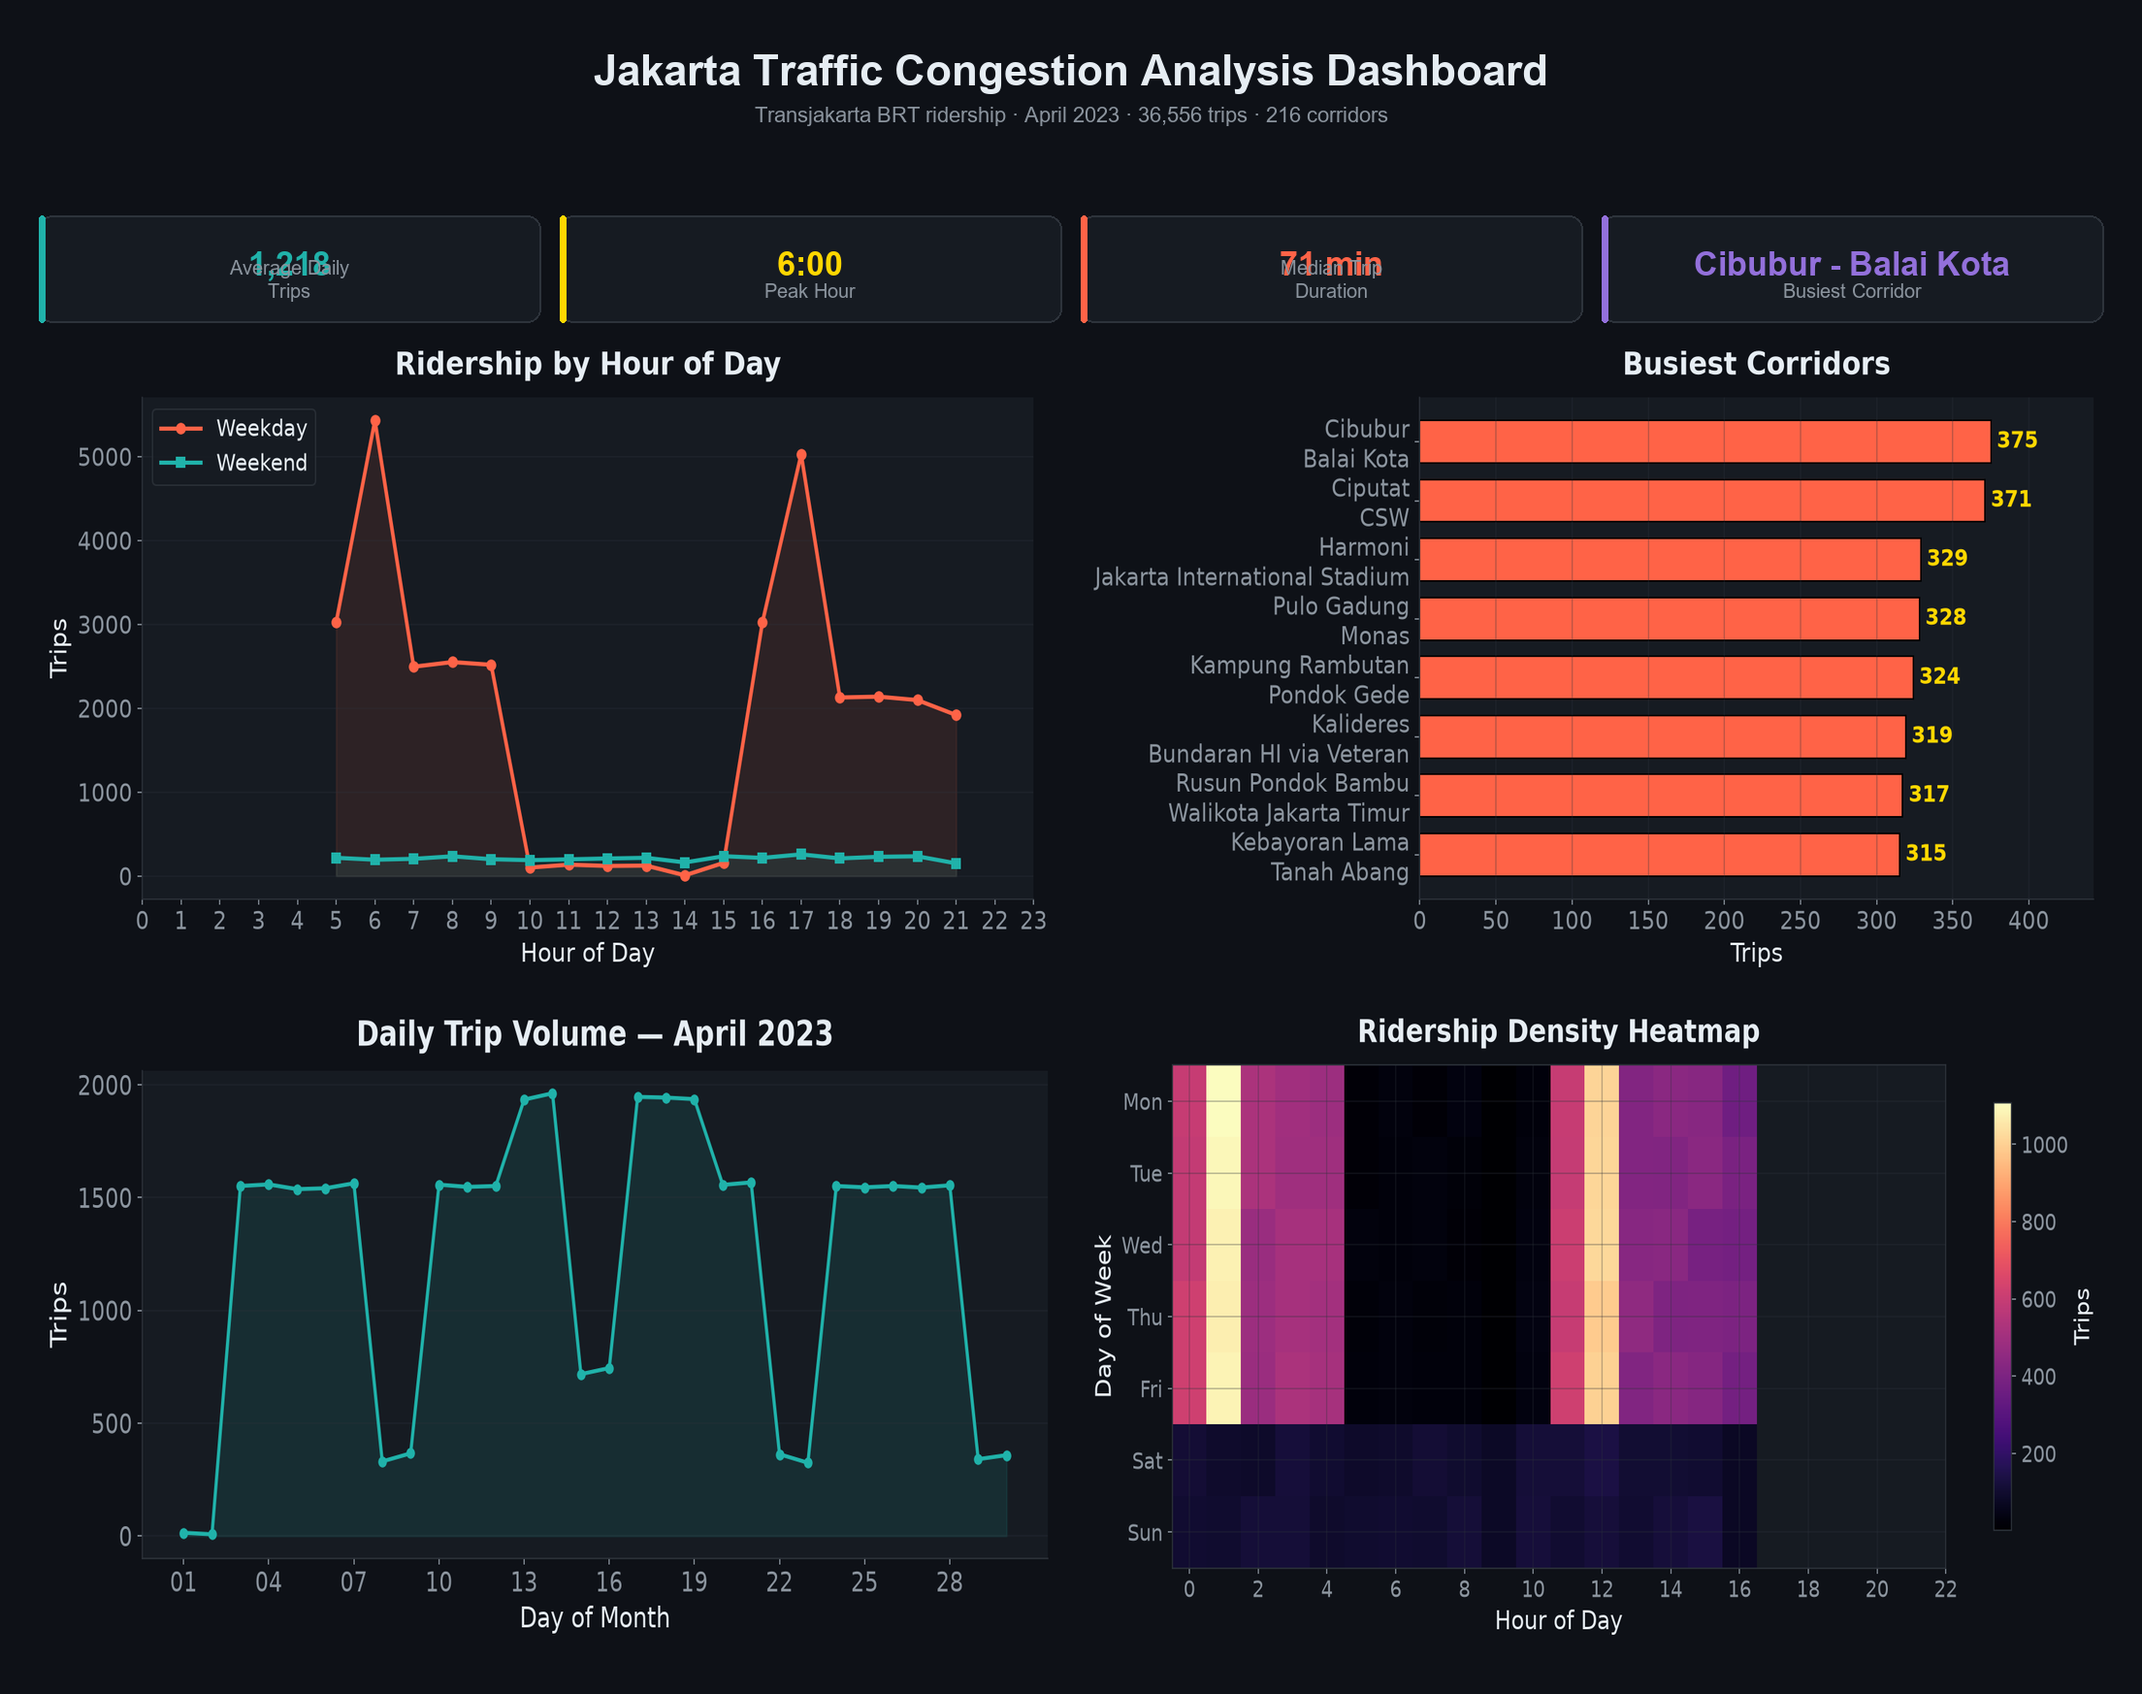
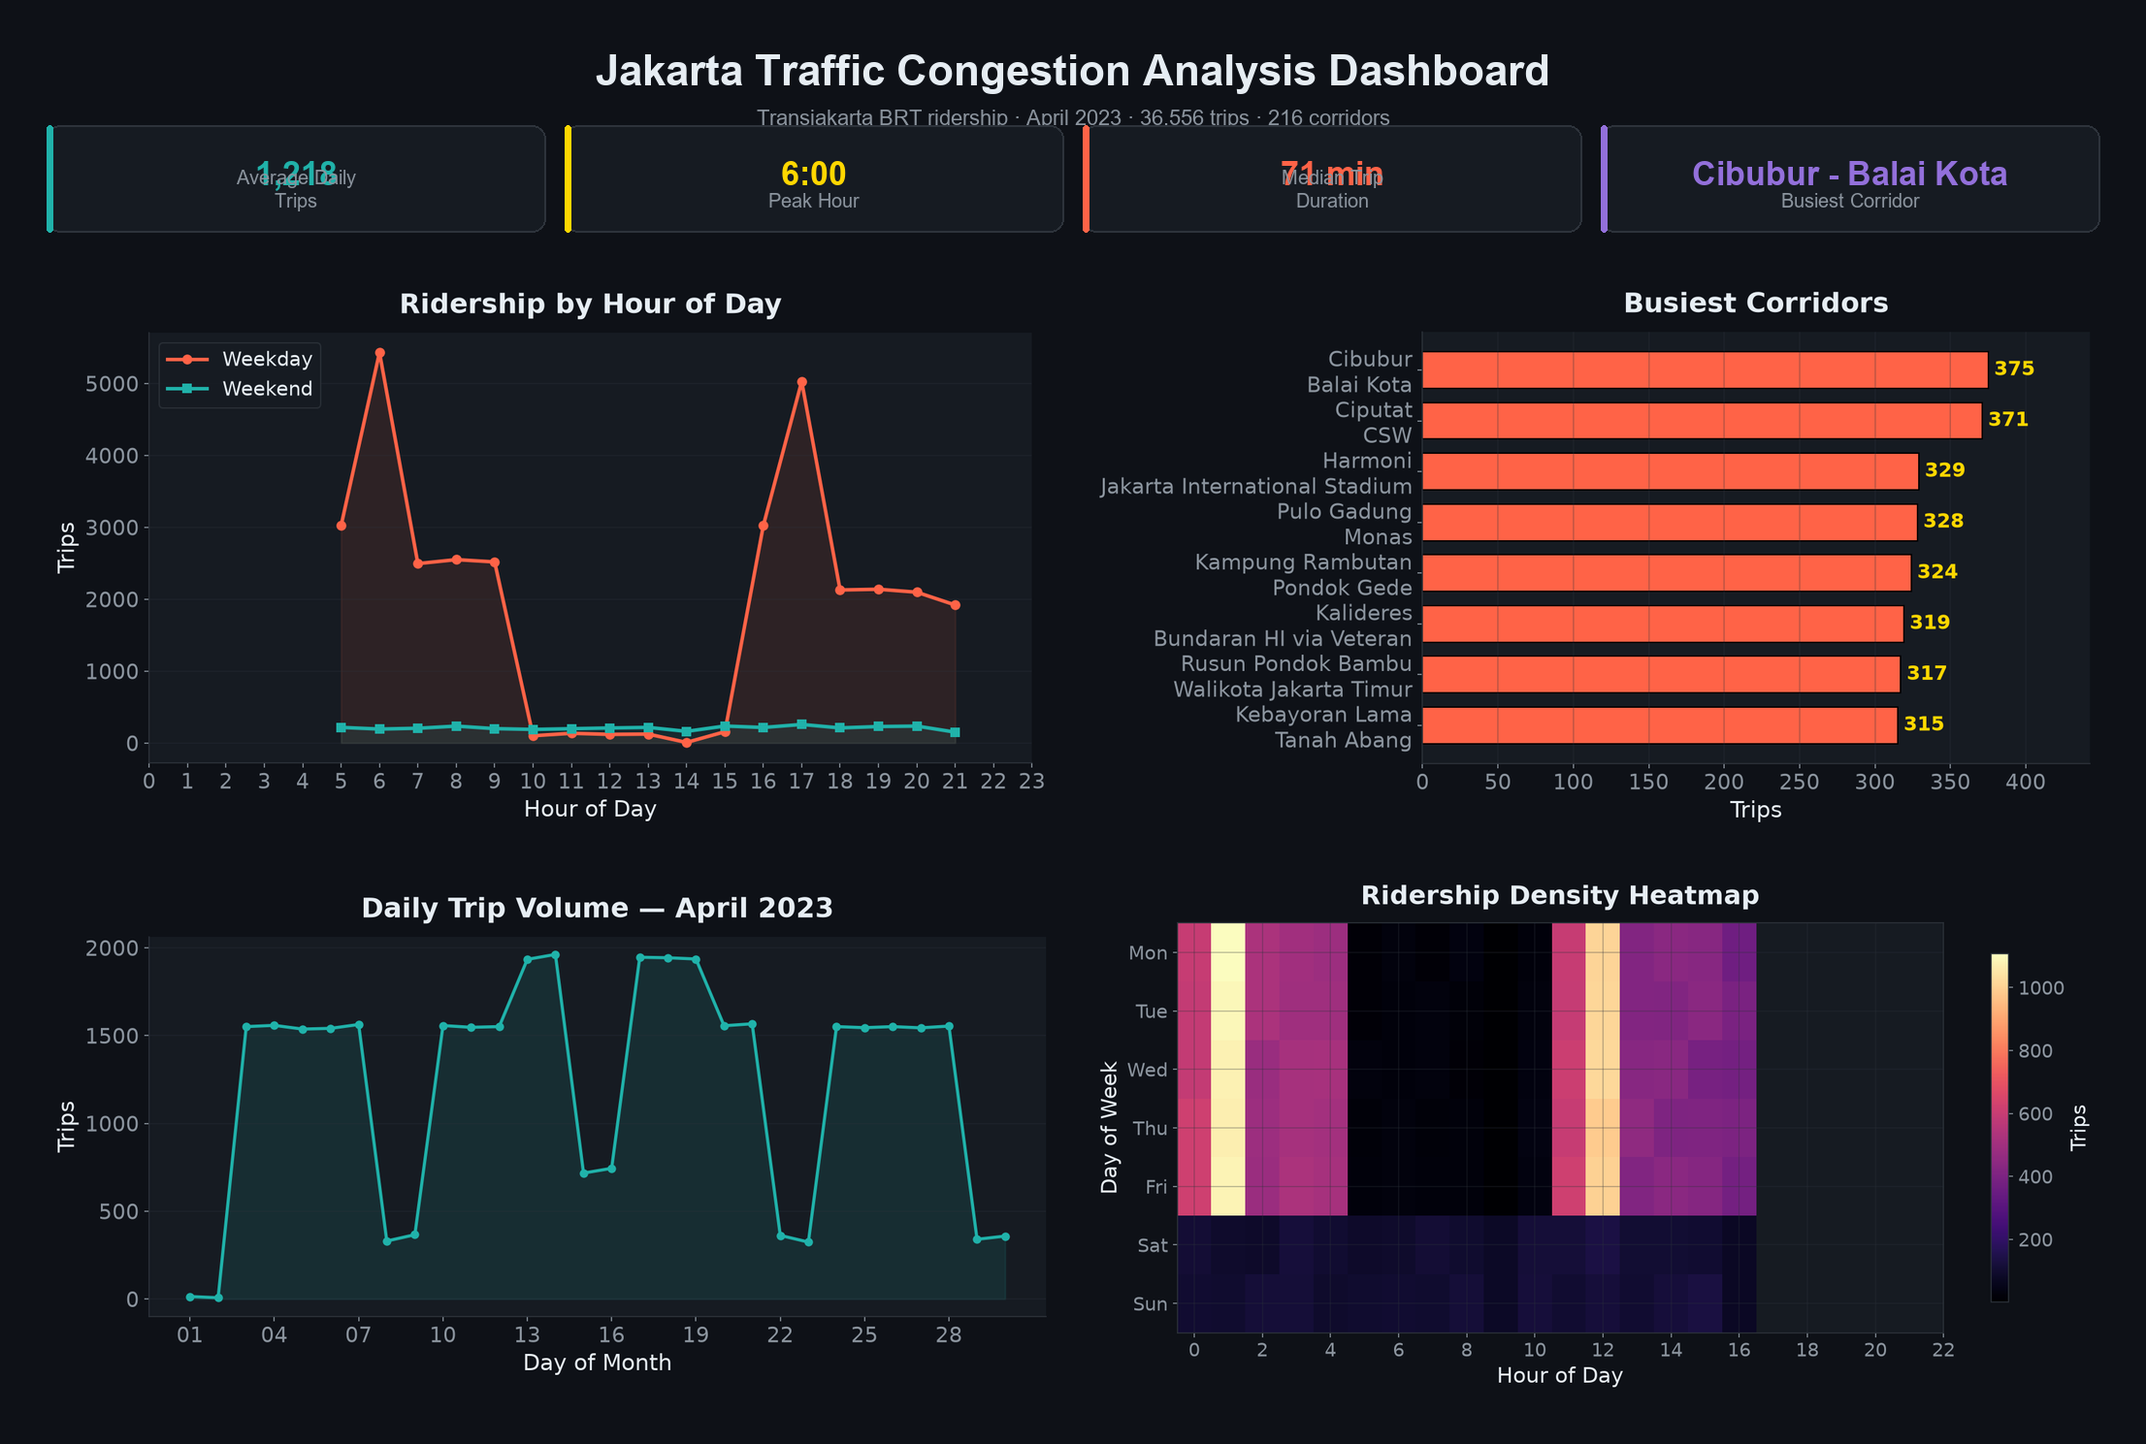
fix: dashboard layout — KPI/chart overlap, spacing, aspect ratio
- KPI row → chart gap increased 18px → 52px (no more heading overlap)
- Tiles preserve aspect ratio (no more squashed titles)
- Rows computed from scaled tile heights, centered vertically
- Uniform margins (48px), consistent column/row gaps (36/44px)
- Header geometry from real font metrics (no magic fixed heights)
- Hierarchy: title → subtitle → KPI cards → clear gap → chart grid

diff --git a/build_dashboard.py b/build_dashboard.py
@@ -201,40 +201,61 @@ def build_dashboard(df):
         "heat":   Image.open("assets/ch_heatmap.png"),
     }
 
-    # Tile size (square-ish panels)
-    TW, TH = 1050, 660
-    GAP = 28
-    MARGIN = 40
+    # ── Layout constants (consistent margins / padding) ─────────────
+    MARGIN   = 48          # outer canvas margin (uniform)
+    TILE_W   = 1040        # tile width (aspect-preserving, see below)
+    COL_GAP  = 36          # horizontal gap between columns
+    ROW_GAP  = 44          # vertical gap between chart rows
+    KPI_GAP  = 52          # KPI row → first chart row (clear breathing room)
+    SUB_GAP  = 26          # subtitle → KPI cards
+    TITLE_SP = 14          # main title → subtitle
 
-    # Header block
-    HEADER_H = 190
-    KPI_H = 110
-    HEADER_GAP = 18
-
-    # Canvas: 2 cols x 2 rows of tiles + header
-    inner_w = 2 * TW + GAP
+    inner_w = 2 * TILE_W + COL_GAP
     W = inner_w + 2 * MARGIN
-    H = HEADER_H + KPI_H + HEADER_GAP + 2 * TH + GAP + 2 * MARGIN
 
-    canvas = Image.new("RGB", (W, H), BG)
-    draw = ImageDraw.Draw(canvas)
+    # Pre-scale tiles preserving aspect ratio; compute row heights
+    order = ["hourly", "corr", "daily", "heat"]
+    scaled = {}
+    for k in order:
+        img = tiles[k]
+        h = int(round(TILE_W * img.height / img.width))
+        scaled[k] = img.resize((TILE_W, h), Image.LANCZOS)
 
-    # Main title
+    row_h = [max(scaled[order[0]].height, scaled[order[1]].height),
+             max(scaled[order[2]].height, scaled[order[3]].height)]
+
+    # Header geometry
     title_font = ImageFont.truetype("arialbd.ttf", 44)
     sub_font   = ImageFont.truetype("arial.ttf", 22)
     kpi_title  = ImageFont.truetype("arial.ttf", 20)
     kpi_val    = ImageFont.truetype("arialbd.ttf", 34)
 
+    title_bbox = title_font.getbbox("Jakarta Traffic Congestion Analysis Dashboard")
+    title_h = title_bbox[3] - title_bbox[1]
+    sub_bbox = sub_font.getbbox("Transjakarta BRT ridership · April 2023 · 36,556 trips · 216 corridors")
+    sub_h = sub_bbox[3] - sub_bbox[1]
+
+    KPI_H = 110
+    header_end = (MARGIN + TITLE_SP + title_h + SUB_GAP + KPI_H + KPI_GAP)
+
+    H = header_end + row_h[0] + ROW_GAP + row_h[1] + MARGIN
+
+    canvas = Image.new("RGB", (W, H), BG)
+    draw = ImageDraw.Draw(canvas)
+
+    # ── 1. Main title ───────────────────────────────────────────────
     tw = draw.textbbox((0, 0), "Jakarta Traffic Congestion Analysis Dashboard", font=title_font)
-    draw.text((W // 2 - tw[2] // 2, MARGIN + 8),
+    draw.text((W // 2 - tw[2] // 2, MARGIN),
               "Jakarta Traffic Congestion Analysis Dashboard",
               fill=TEXT, font=title_font)
+
+    # ── 2. Subtitle ─────────────────────────────────────────────────
     sub = "Transjakarta BRT ridership · April 2023 · 36,556 trips · 216 corridors"
     tw2 = draw.textbbox((0, 0), sub, font=sub_font)
-    draw.text((W // 2 - tw2[2] // 2, MARGIN + 66),
+    draw.text((W // 2 - tw2[2] // 2, MARGIN + TITLE_SP + title_h + 6),
               sub, fill=MUTED, font=sub_font)
 
-    # KPI cards
+    # ── 3. KPI cards ────────────────────────────────────────────────
     kpi_data = [
         ("Average Daily\nTrips", f"{kpi['avg_daily']:,}", TEAL),
         ("Peak Hour", f"{kpi['peak_hour']}:00", GOLD),
@@ -243,7 +264,7 @@ def build_dashboard(df):
     ]
     card_w = (inner_w - 3 * 20) // 4
     card_h = KPI_H
-    kpi_y = MARGIN + HEADER_H - 8
+    kpi_y = MARGIN + TITLE_SP + title_h + SUB_GAP
     for i, (label, value, color) in enumerate(kpi_data):
         x = MARGIN + i * (card_w + 20)
         # fit value into card width (leave padding for accent bar + edges)
@@ -251,14 +272,16 @@ def build_dashboard(df):
         draw_kpi_card(draw, x, kpi_y, card_w, card_h, label, fit_val, color,
                       kpi_title, kpi_val)
 
-    # Paste the 4 tiles in 2×2
-    grid_y = kpi_y + card_h + HEADER_GAP
+    # ── 4. Chart tiles (2×2), aspect-preserving, centered per row ───
+    grid_y = kpi_y + card_h + KPI_GAP
     for row in range(2):
+        row_top = grid_y + row * (row_h[0] + ROW_GAP)
         for col in range(2):
-            key = ["hourly", "corr", "daily", "heat"][row * 2 + col]
-            img = tiles[key].resize((TW, TH), Image.LANCZOS)
-            x = MARGIN + col * (TW + GAP)
-            y = grid_y + row * (TH + GAP)
+            key = order[row * 2 + col]
+            img = scaled[key]
+            # vertically center the tile inside its row box
+            y = row_top + (row_h[row] - img.height) // 2
+            x = MARGIN + col * (TILE_W + COL_GAP)
             canvas.paste(img, (x, y))
 
     os.makedirs("output", exist_ok=True)
